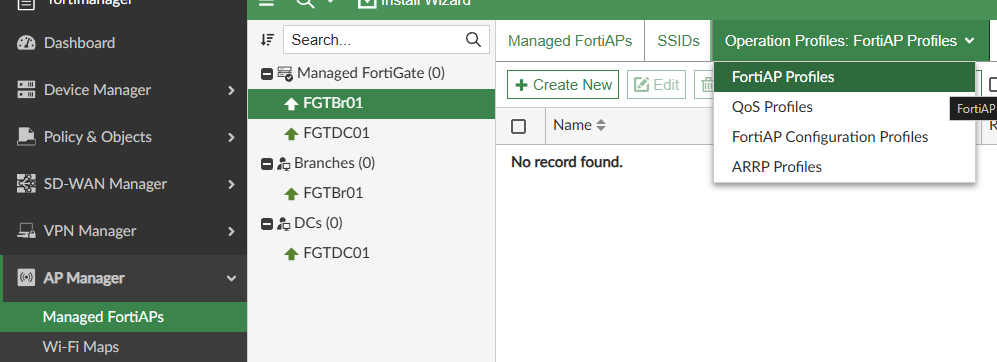
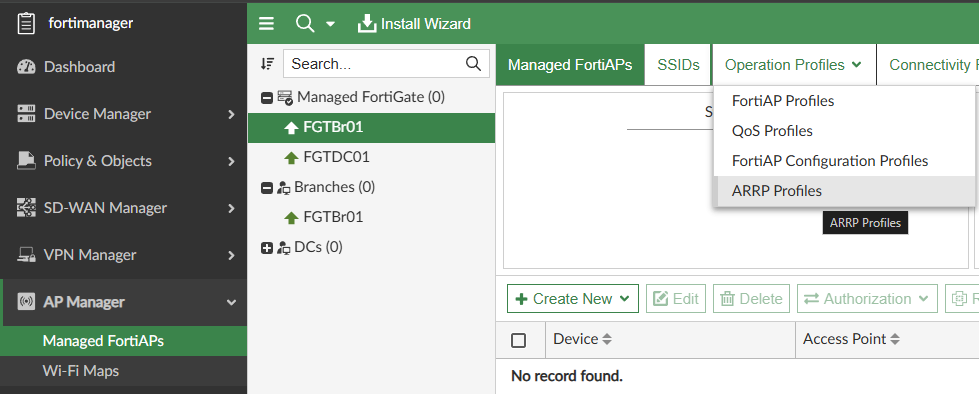
Committed Changes based on Dereks feedback

diff --git a/labs/Lab3.md b/labs/Lab3.md
@@ -5,10 +5,21 @@
 | FabricStudio | admin/fortinet1!   |
 | FortiManager | admin/fortinet4A!! |
 
-### Creating Operation Profile
+### Creating ARRP Profile
 1. Navagating to AP Manager > Managed FortiAPs > Operational Profiles > FortiAP Profiles
 ![](media/Lab3-1.png)
-
+2. Create a new ARRP Profile with the following settings:
+   - Name : aarp-lowdensity-highinterference
+   - Weight Managed AP : 100
+   - Weight Rogue AP : 30
+   - Weight Weather Channel : 0
+   - Weight DFS Channel : 0
+   - Threshold Channel Load : 45
+   - Leave Rest Default
+![](media/Lab3-6.png)
+### Creating Operation Profile
+1. Navagate to Operation Profiles: FortiAP Profiles
+![](media/Lab3-5.png)
 2. Create a new Profile
    - Name : FAP-241K-SELab
    - Platform : FortiAP-241k
@@ -39,12 +50,16 @@
      - Mode : Dedicated to Monitor
      - WIDS Profile : default
    - Leave everything else as Default and click OK
-   - Double check everything looks right
-
-![](media/Lab3-3.png)
-
 >[!Note]
 >As you haven't added the AP you you'll need to toggle "View All Profiles" to make it visable
+
+>[!warning]
+>- Double check everything looks right, it seems to be 50/50 that the R3 Profile dosne't save. You just need to go back in and toggle it to access point instead of dedicated monitor
+>![](media/Lab3-3.png)
+>
+
+
+
 
 ### Adding a Model AP
 3. Navagate to AP Manager > Managed FortiAPs
@@ -69,7 +84,7 @@
    - Source : **Create New Address**
      - Name : AP Mgmt Subnet
      - IP: 172.30.200.0/24
-     - Click Ok add change note and Add to source
+     - Click Ok, Add change note, and Add as a source
     - Destination : Select DC Services
     - Service : DNS and NTP
    - Leave the rest Default, Click OK, fill in change note

diff --git a/labs/Lab2.md b/labs/Lab2.md
@@ -75,7 +75,6 @@
       - Netmask : Specify - 255.255.255.0
       - Change DNS to be "Same as System DNS"
       - Under Advanced Change NTP to "Same as System NTP"
-      - Change Wireless Controllers to "Same as Interface IP"
       - Leave the rest Default
    - Lastly at the bottem Select Map to Normalized Interfaces and create new
    - Name : User Access
@@ -101,7 +100,8 @@
 
 ![](media/Lab2-9.png)
 
->[!danger]
+>[!note]
+>###### This appears to be fixed in 8.0 Release but I'm leaving it here incase you run into it
 > There seems to be a bug with this Beta version of Manager/Gate that causes the Netmask of DHCP servers not to be correctly passed to the fortigate. Please Log onto the Fortigate directly after the install and check that your server ranges for the two vlans you created have a valid Netmask, they will likely have a 0.0.0.0
 > ![](media/Lab2-10.png)
 > After you've fixed these go ahead and do a quick install on FGTBr01, it will go back to happy

diff --git a/labs/lab1.md b/labs/lab1.md
@@ -44,9 +44,21 @@
     ![](media/Lab1-4.png)
 
 7. Connect your fortigate's WAN1 to the lab connection and power the device up
+>[!note]
+>For ease of deployment we've added a DHCP option to point the Fortigate to Fortimanager, this should work. If it dosen't manually pointing it using the following via console connection is fine:
+>
+>config system central-management
+>set type fortimanager
+>set fmg 172.31.1xx.50
+>end
+
 8. Wait for the device to autolink, once complete run and syncronized, **run a quick install**
    - This might show that nothing is to be installed, thats fine 
     ![](media/Lab1-5.png)
+
+9.  At this point if you navagate to Device Manager > Monitors > VPN Monitor, you should see a vpn built between your desk Fortigate and your enviroment.
+
+![](media/Lab1-7.png)
 
 #### Lab complete move onto Lab 2
 
